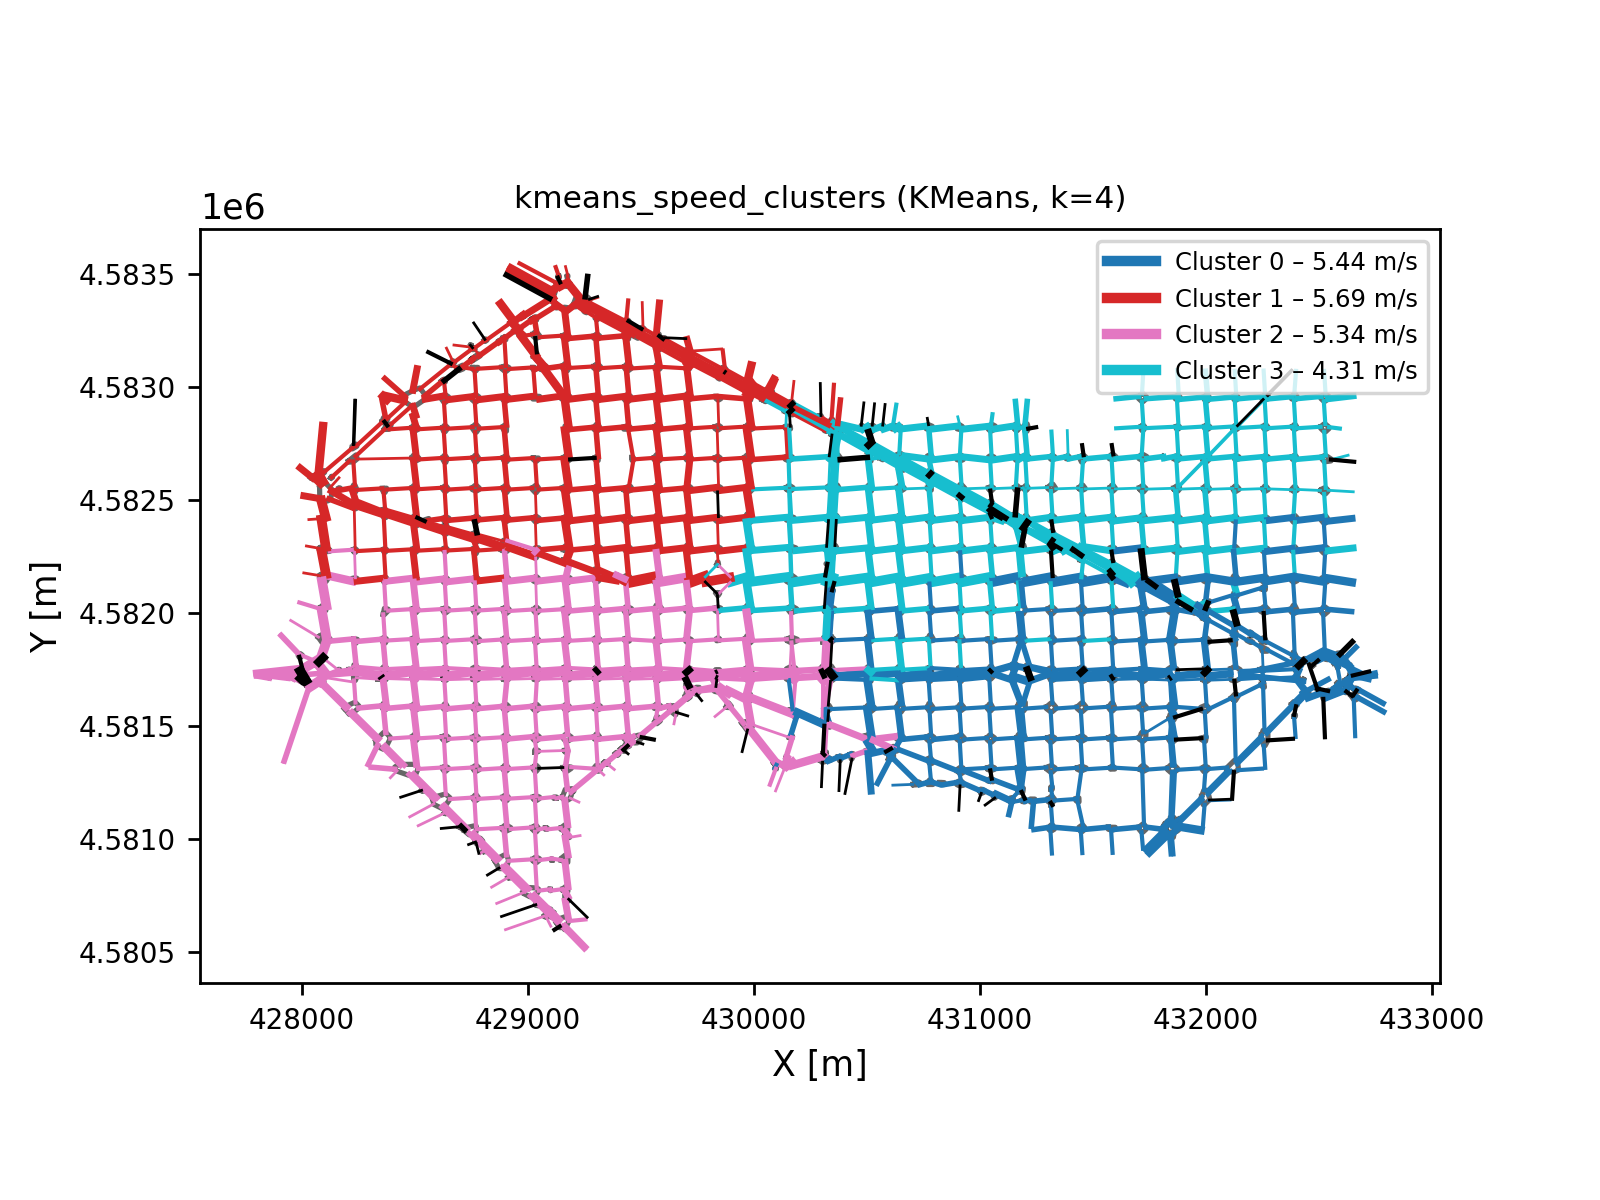
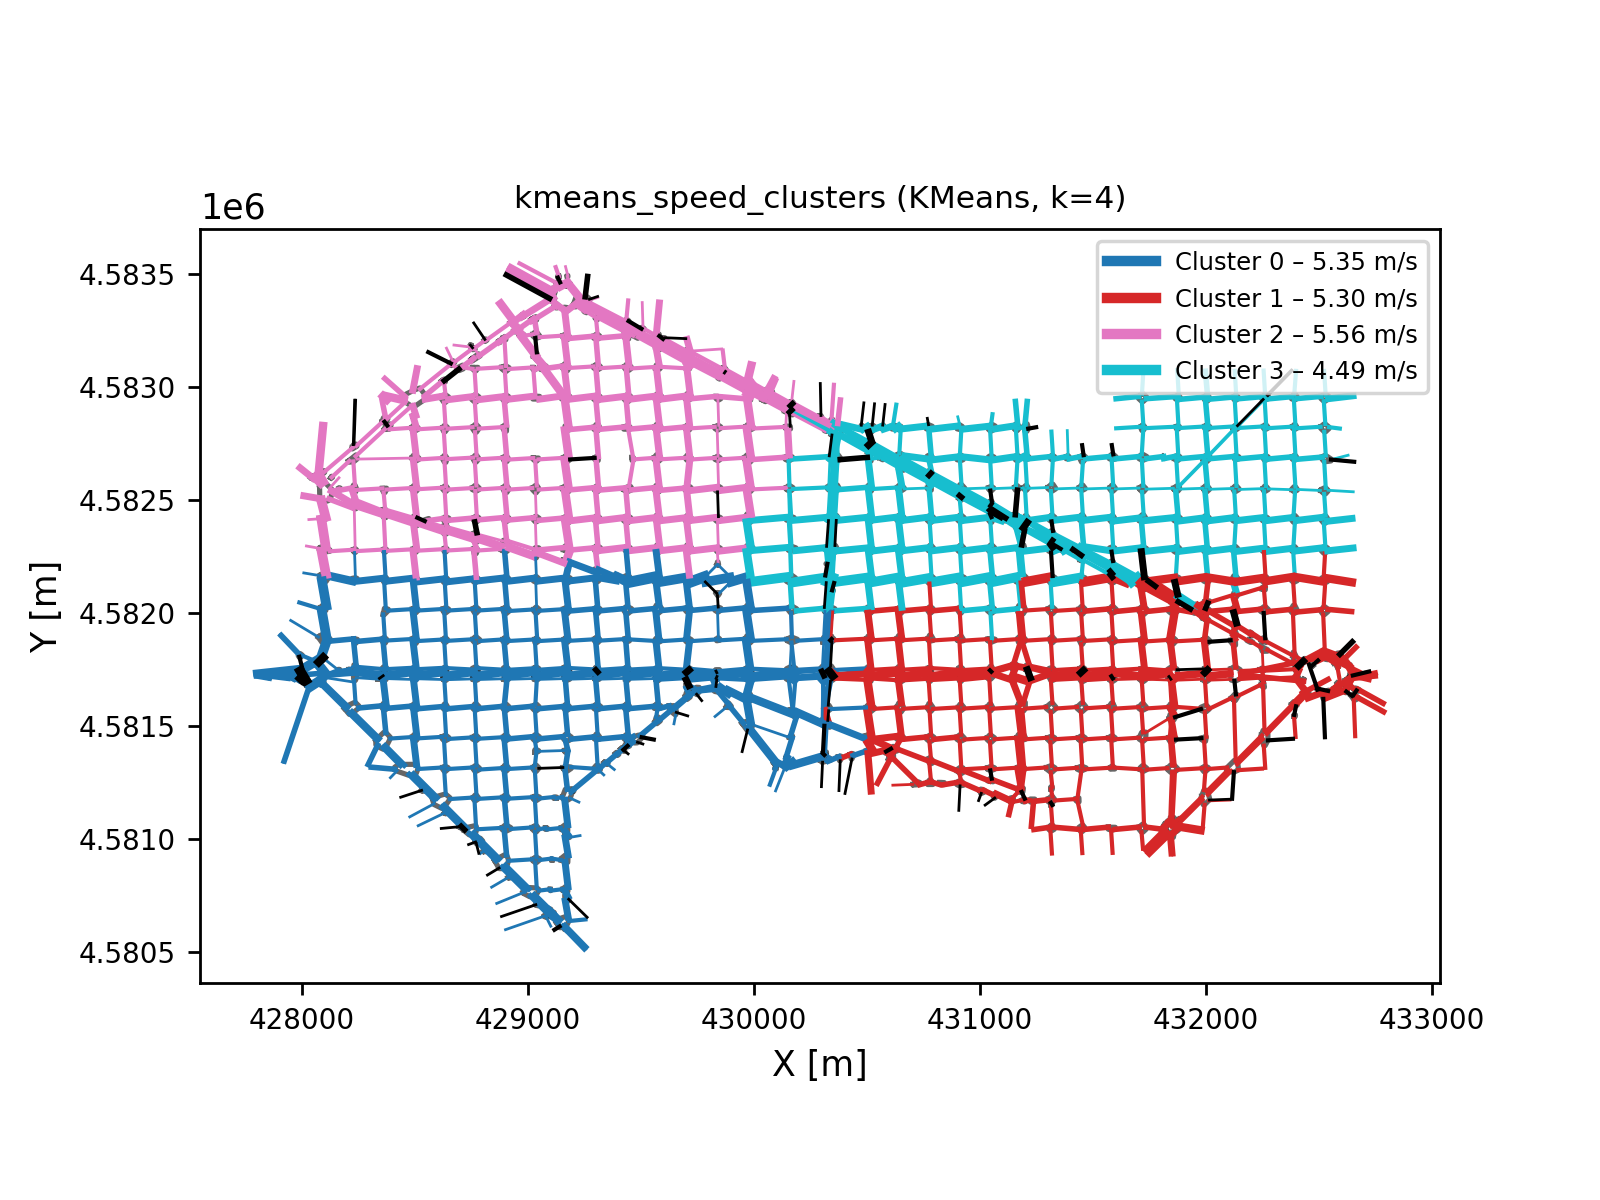
clusters on one time frame

Changed region(s): [[0.1562, 0.2158, 0.875, 0.8017], [0.8438, 0.2467, 0.875, 0.3083]]

diff --git a/main.py b/main.py
@@ -338,9 +338,9 @@ def kmeans_clust(n_clusters, random_states, name):
         print(f"Seed {i} DONE")
 
 
-############################# KMEANS WITH VELOCITY / TRAFFIC FEATURES #############################
+############################# KMEANS - WITH VELOCITY / TRAFFIC FEATURES #############################
 
-def kmeans_clustering(n_clusters, name, feature_type, random_state=42, threshold=np.array([]), filter=False, show=True):
+def kmeans_clustering(n_clusters, name, feature_type, random_state=42, threshold=np.array([]), filter=False, show=True, timeframe=None):
     """
     KMeans clustering using the same rich traffic feature vectors as the Ward
     method, making it directly comparable with `clustering()`.
@@ -420,8 +420,9 @@ def kmeans_clustering(n_clusters, name, feature_type, random_state=42, threshold
     # accepts "distance" and "time", which swap in different traffic signals
     # while keeping the same temporal feature structure.
     
-    X = build_cluster_features(feature_type, threshold, filter)
-    
+    one_tf = timeframe is not None
+    X = build_cluster_features(feature_type, timeframe=timeframe if one_tf else 0, threshold=threshold, filter=filter, one_timeframe=one_tf)
+
     if feature_type == "speed" and threshold.size > 0:
             print(f"The low speed and short links are :{threshold}")
             
@@ -661,7 +662,7 @@ def profile_components(profile, n_components=3):
     return u[:, :n_comp] * s[:n_comp]
 
 
-def temporal_cluster_features(profile, peak_mode, spatial_weight=2, dynamic_weight = 1, threshold=np.array([]), filter=False): #trial of 0 so that it doesnt take into account the geometry of the map
+def temporal_cluster_features(profile, peak_mode, spatial_weight=2.5, dynamic_weight = 1, threshold=np.array([]), filter=False): #trial of 0 so that it doesnt take into account the geometry of the map
     """
     Compute combined temporal and spatial features for clustering nodes based on
     their temporal profiles.
@@ -739,17 +740,31 @@ def build_cluster_features(feature_type, timeframe, threshold=np.array([]), filt
             out=np.full(vdist.shape, np.nan, dtype=float),
             where=vtime != 0,
         )
-            
+
         speed_profile = mean_over_sessions(speed)
-        
+
         ### FILTER ###
         if filter:
             if threshold.size > 0:
                 mask = np.ones(speed_profile.shape[1], dtype=bool)
-                mask[threshold] = False 
+                mask[threshold] = False
                 speed_profile = speed_profile[:, mask]
         ##############
-        
+
+        if one_timeframe:
+            # Single timeframe: use speed at one timestamp as feature vector
+            speed_snapshot = speed_profile[timeframe, :]  # shape (N,)
+            speed_snapshot = np.nan_to_num(speed_snapshot, nan=0.0)
+            spatial = np.column_stack([links["c_x"].to_numpy(), links["c_y"].to_numpy()])
+            if filter and threshold.size > 0:
+                mask = np.ones(spatial.shape[0], dtype=bool)
+                mask[threshold] = False
+                spatial = spatial[mask, :]
+            return np.column_stack([
+                StandardScaler().fit_transform(speed_snapshot.reshape(-1, 1)),
+                StandardScaler().fit_transform(spatial),
+            ])
+
         return temporal_cluster_features(speed_profile.T, peak_mode="min", threshold=threshold, filter=filter)
 
     if feature_type == "distance":
@@ -1380,9 +1395,8 @@ cluster_amount = list(range(2,8,1))
 
 for i in cluster_amount:
     kmeans_clustering(i, "kmeans_speed_clusters", "speed", threshold=th)
+    kmeans_clustering(i, "kmeans_speed_clusters_t_10", "speed", threshold=th,timeframe=10)
 
 
 
-
-... # Do for one timeframe
 
